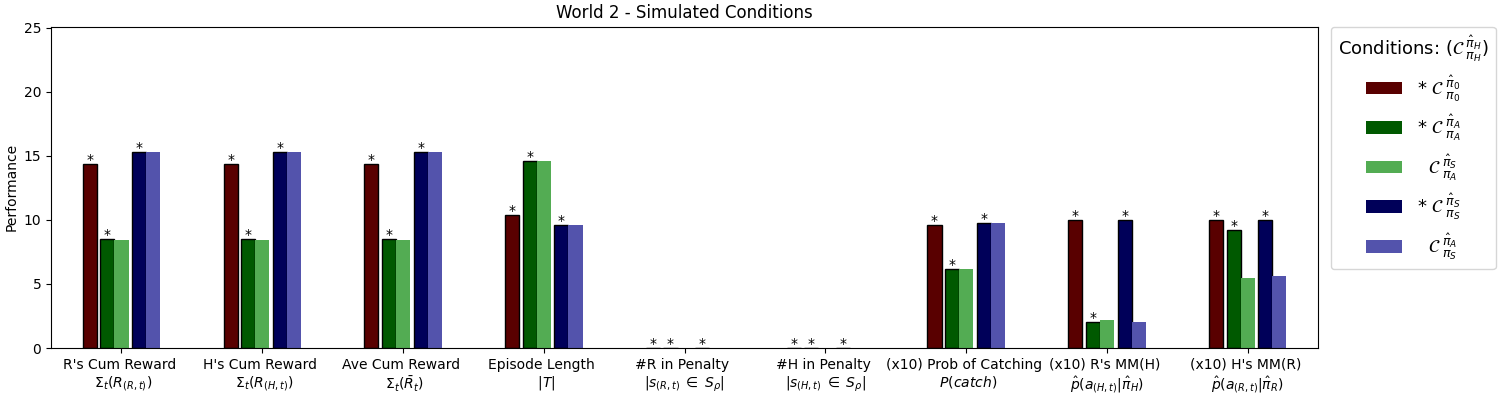
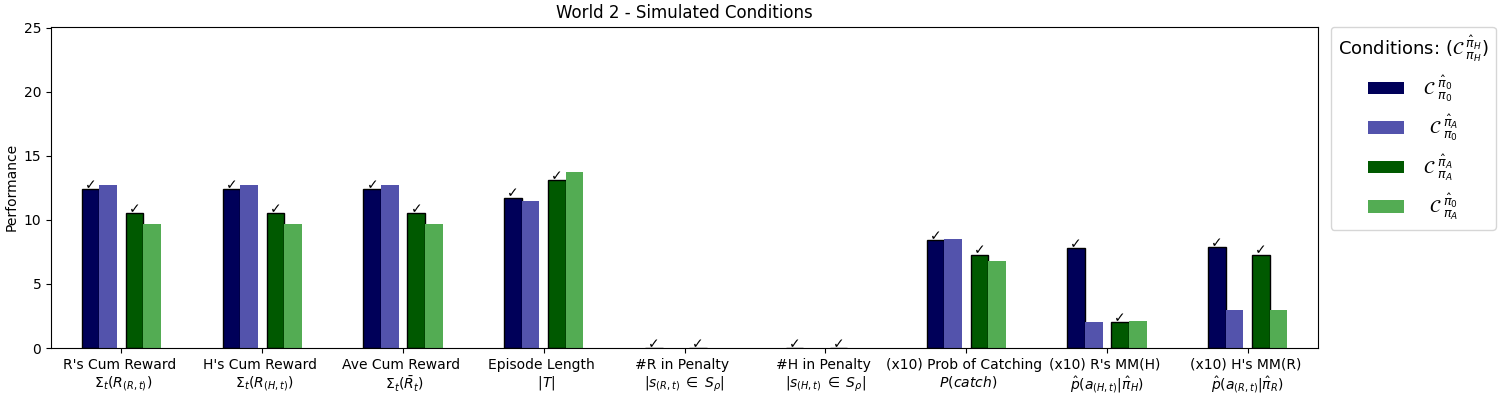
Updated policy comparison

diff --git a/IQN/compare_policies.py b/IQN/compare_policies.py
@@ -29,6 +29,9 @@ policy_name2sym = {}
 policy_name2sym['Baseline'] = '0'
 policy_name2sym['Averse'] = 'A'
 policy_name2sym['Seeking'] = 'S'
+# corr_assum_marker_key = '* '
+corr_assum_marker_key = ' '
+corr_assum_marker_plot = '✓'
 
 legend_sz = 13
 
@@ -57,21 +60,22 @@ def main():
     group_face_colors,test_cases = [], []
     n=0
     test_cases.append(['Baseline','Baseline']); n+=1
-    # test_cases.append(['Averse', 'Baseline']);  n+=1
-    test_cases.append(['Seeking', 'Baseline']); n+=1
-    group_face_colors += [(min([1, c0 + inc * (1-c0)/n]), inc * (1-c0), inc * (1-c0)/n, 1.0) for inc in range(n)]
-
-    # n=0
-    # # test_cases.append(['Baseline', 'Averse']);  n+=1
-    # test_cases.append(['Averse', 'Averse']);    n += 1
-    # test_cases.append(['Seeking', 'Averse']);   n += 1
+    test_cases.append(['Averse', 'Baseline']);  n+=1
+    # test_cases.append(['Seeking', 'Baseline']); n+=1
+    group_face_colors += [(inc * (1-c0)/n, inc * (1-c0)/n, min([1, c0 + inc * (1-c0)/n]), 1.0) for inc in range(n)]
     # group_face_colors += [(inc * (1-c0)/n, min([1, c0 + inc * (1-c0)/n]), inc * (1-c0)/n, 1.0) for inc in range(n)]
 
+    n=0
+    test_cases.append(['Averse', 'Averse']);    n += 1
+    test_cases.append(['Baseline', 'Averse']);  n+=1
+    # test_cases.append(['Seeking', 'Averse']);   n += 1
+    group_face_colors += [(inc * (1-c0)/n, min([1, c0 + inc * (1-c0)/n]), inc * (1-c0)/n, 1.0) for inc in range(n)]
+
     n = 0
-    test_cases.append(['Baseline', 'Seeking']); n+=1
-    test_cases.append(['Seeking', 'Seeking']);  n += 1
+    # test_cases.append(['Baseline', 'Seeking']); n+=1
+    # test_cases.append(['Seeking', 'Seeking']);  n += 1
     # test_cases.append(['Averse', 'Seeking']); n += 1
-    group_face_colors += [(inc * (1-c0)/n, inc * (1-c0)/n, min([1, c0 + inc * (1-c0)/n]), 1.0) for inc in range(n)]
+    # group_face_colors += [(inc * (1-c0)/n, inc * (1-c0)/n, min([1, c0 + inc * (1-c0)/n]), 1.0) for inc in range(n)]
 
 
 
@@ -122,7 +126,7 @@ def main():
 
     # comp_fig.savefig(save_dir + save_indv_fname)
     get_summary(summary_ax, all_data)
-    summary_fig.savefig(save_dir + save_summary_fname)
+    summary_fig.savefig(save_dir + save_summary_fname); print(f'Saved: {save_dir + save_summary_fname}')
     plt.show()
 
 def get_summary(ax,df,has_legend=True):
@@ -205,7 +209,7 @@ def test_policies(iWorld,policy_type,policyR,policyH,num_episodes,sigdig=2):
     policy_types =  "$\mathcal{C}^{\; \hat{\pi}_{" + f"{policy_name2sym[policy_type[iR]]}" \
                     + "}}_{\; \pi_{" + f"{policy_name2sym[policy_type[iH]]}" +"}}$"
     # "$\mathcal{C}^{\hat{\pi}_{H}}_{\pi_{H}}$"
-    if policy_type[iR] == policy_type[iH]: policy_types='* ' +policy_types
+    if policy_type[iR] == policy_type[iH]: policy_types=corr_assum_marker_key +policy_types
     else: policy_types = '  ' + policy_types
     env = PursuitEvastionGame(iWorld, device, dtype)
 
@@ -266,7 +270,7 @@ def test_policies(iWorld,policy_type,policyR,policyH,num_episodes,sigdig=2):
     # _ptypes = f"(${policy_name2sym[policy_type[iR]]}$ x ${policy_name2sym[policy_type[iH]]}$)"
     _ptypes = "$\mathcal{C}^{\; \hat{\pi}_{" + f"{policy_name2sym[policy_type[iR]]}" \
                    + "}}_{\; \pi_{" + f"{policy_name2sym[policy_type[iH]]}" + "}}$"
-    if policy_type[iR] == policy_type[iH]: _ptypes = '* ' +_ptypes
+    if policy_type[iR] == policy_type[iH]: _ptypes = corr_assum_marker_key +_ptypes
     else: _ptypes = '  ' +_ptypes
 
 
@@ -365,7 +369,7 @@ def set_true_style(ax):
             corners = rect.get_corners()
             x = np.mean([corners[0][0], corners[1][0]])
             y = np.mean([corners[2][1], corners[3][1]])
-            ax.text(x, y, '*', fontsize=10, ha='center')
+            ax.text(x, y, corr_assum_marker_plot, fontsize=10, ha='center')
             # ax.text(x, y, ['BL', 'A', 'S'][i], fontsize=10, ha='center',va='bottom')
             # i+=1
 
